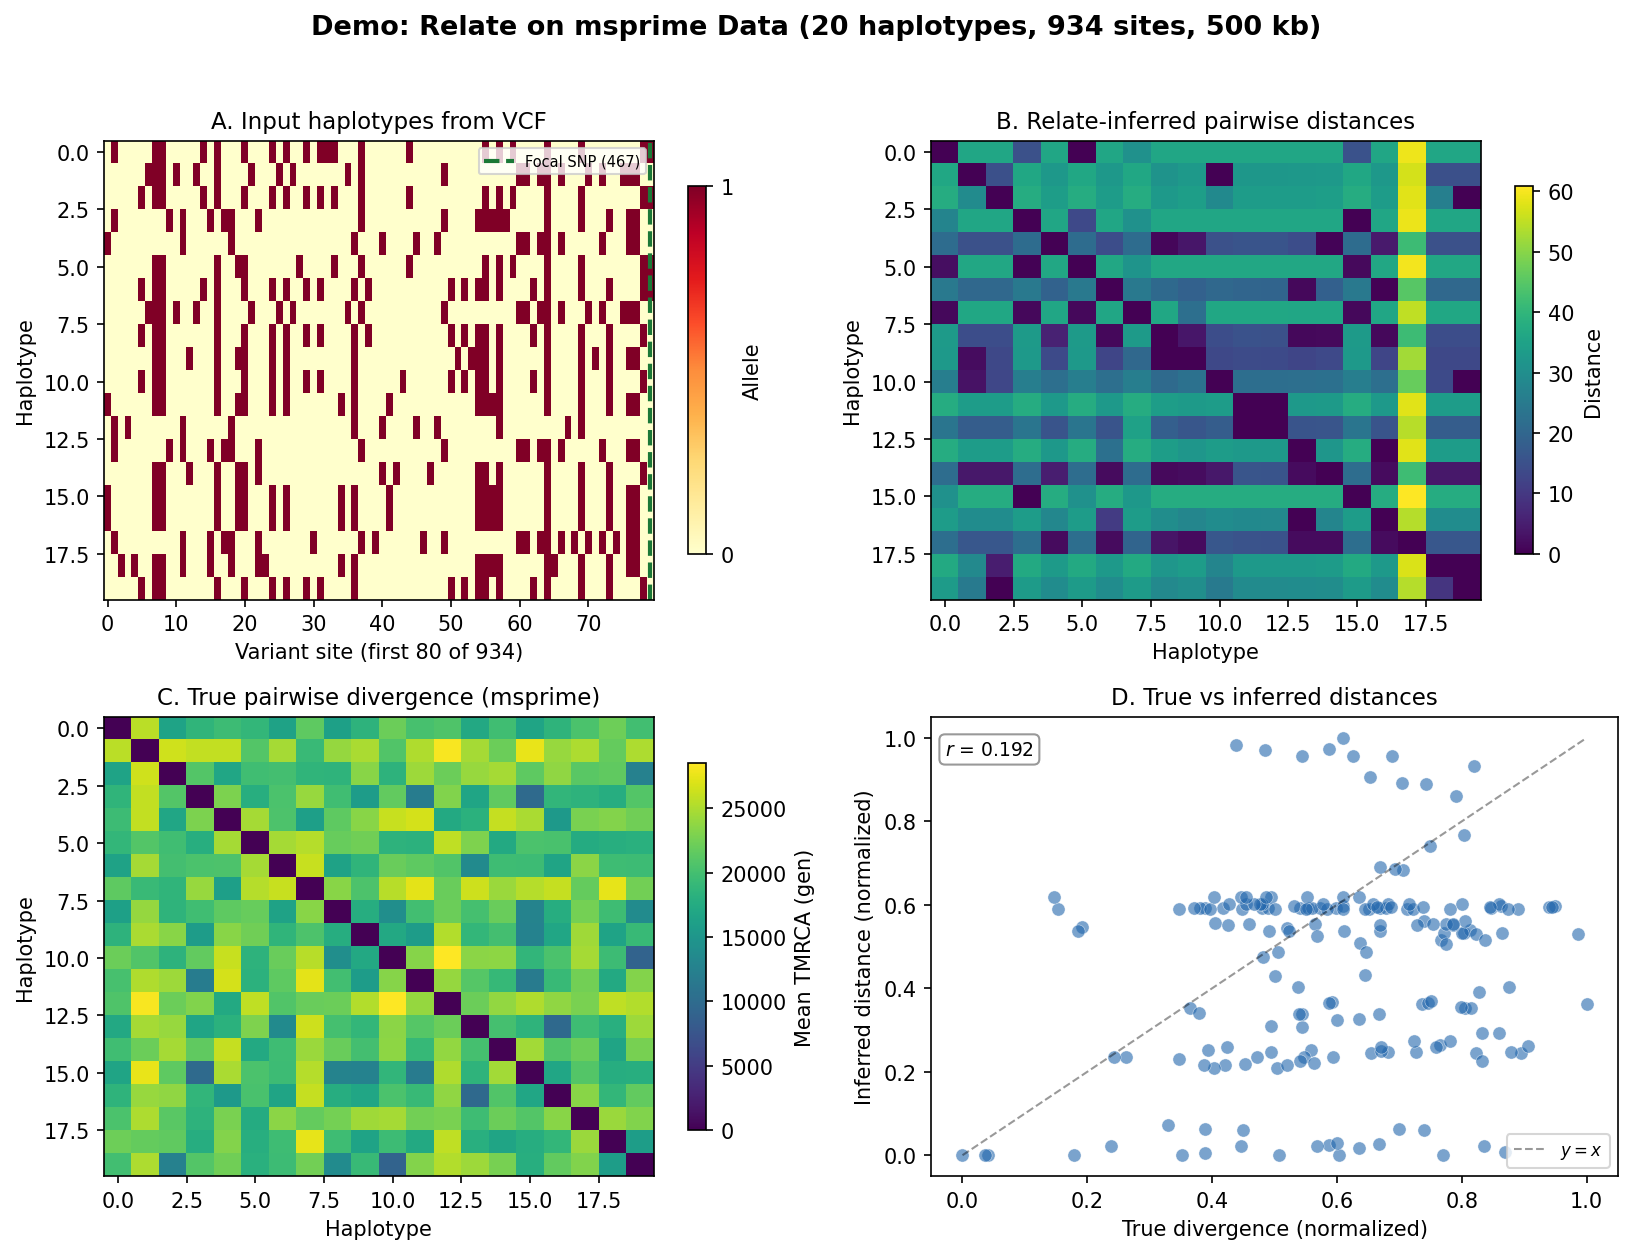
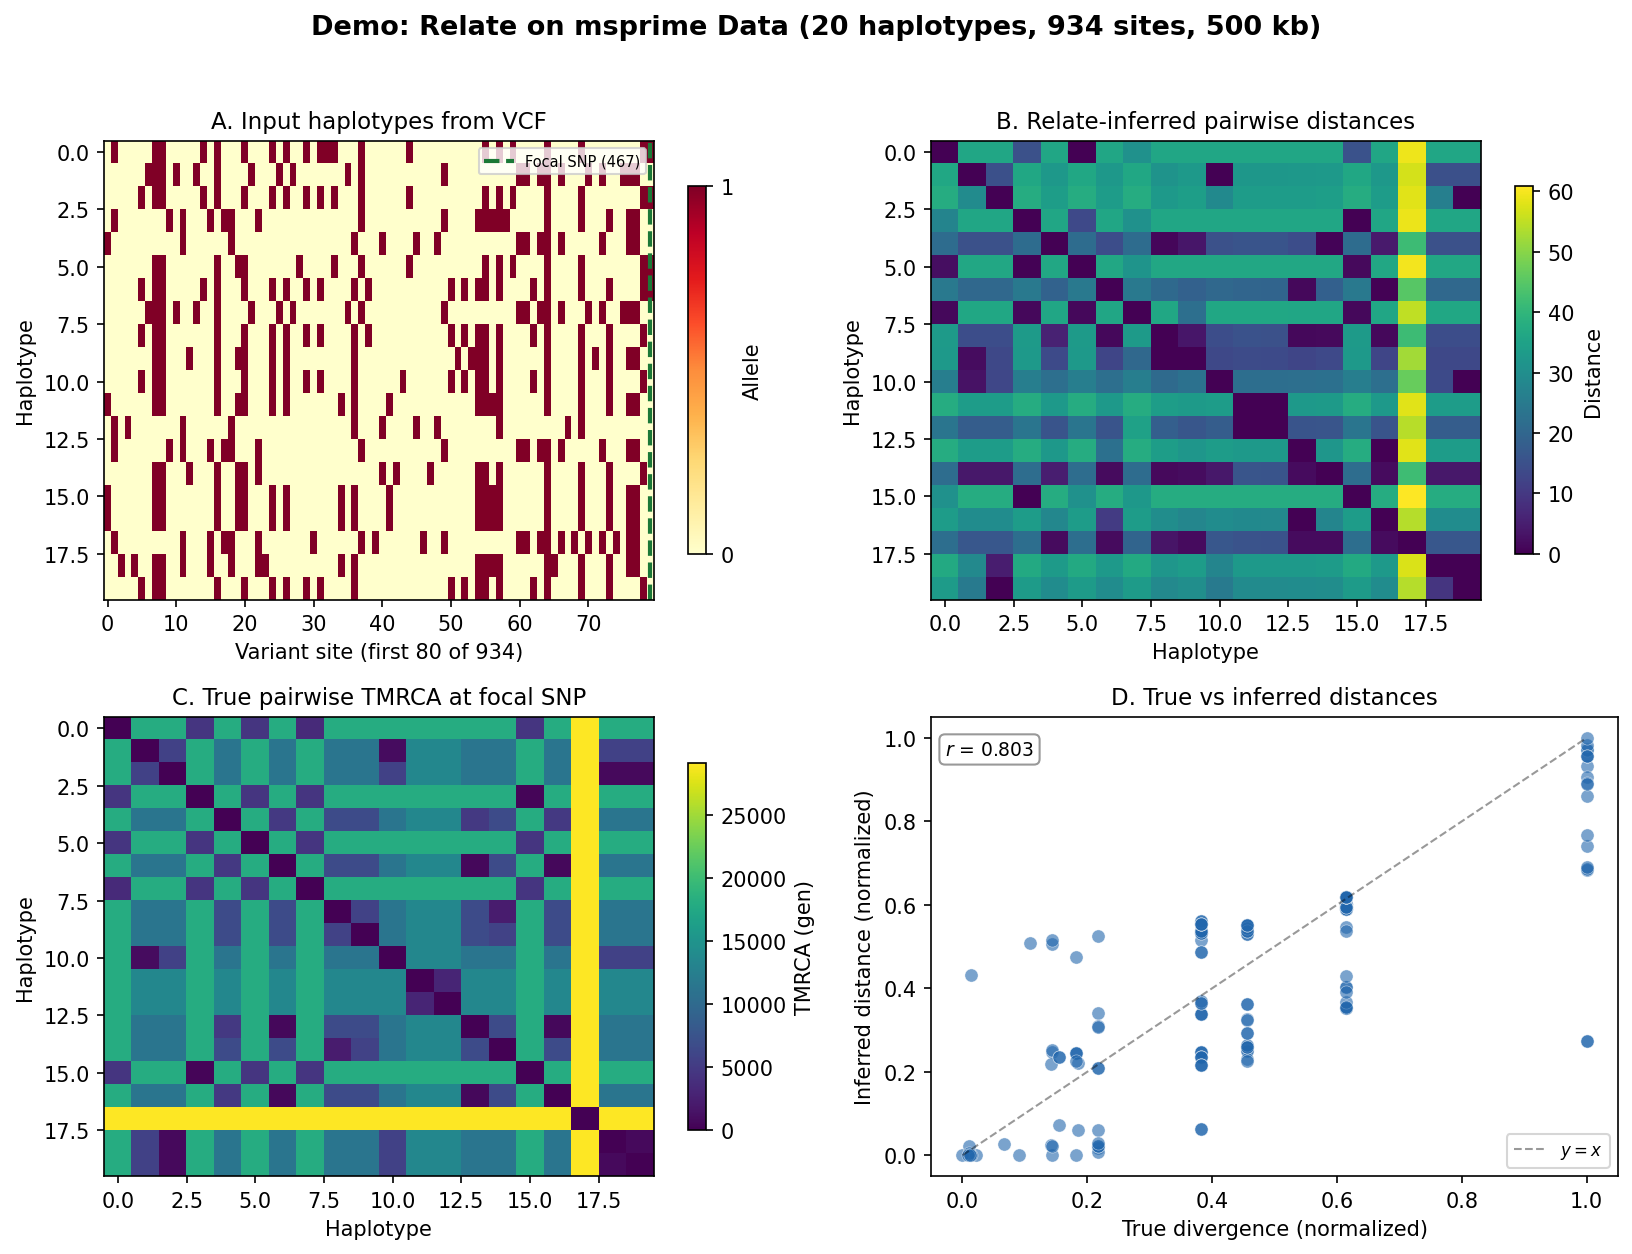
Compare Relate inferred distances against local TMRCA at focal SNP
The demo was comparing inferred distances (local to the focal SNP) against
genome-wide average TMRCA, causing poor correlation (r=0.192) with longer
sequences. Using the true local tree at the focal position gives r=0.803.

diff --git a/figures/fig_demo_relate.py b/figures/fig_demo_relate.py
@@ -47,18 +47,15 @@ D_mat = compute_distance_matrix(G.T, positions, recomb_rate=rho, mu=mu,
 # Build tree from distance matrix
 tree_result = build_tree(D_mat, n_haps)
 
-# ── True pairwise divergence ────────────────────────────────────
+# ── True pairwise TMRCA at focal SNP ──────────────────────────
+focal_pos = positions[focal_snp]
+focal_tree = ts.at(focal_pos)
 true_div = np.zeros((n, n))
-for tree_obj in ts.trees():
-    span = tree_obj.interval[1] - tree_obj.interval[0]
-    for i in range(n):
-        for j in range(i + 1, n):
-            mrca = tree_obj.mrca(i, j)
-            if mrca != -1:
-                t = tree_obj.time(mrca)
-                true_div[i, j] += t * span
-                true_div[j, i] += t * span
-true_div /= ts.sequence_length
+for i in range(n):
+    for j in range(i + 1, n):
+        t = focal_tree.time(focal_tree.mrca(i, j))
+        true_div[i, j] = t
+        true_div[j, i] = t
 
 # ── Figure ──────────────────────────────────────────────────────
 fig, axes = plt.subplots(2, 2, figsize=(11, 8.5))
@@ -93,8 +90,8 @@ ax = axes[1, 0]
 im = ax.imshow(true_div, aspect="auto", cmap="viridis", interpolation="nearest")
 ax.set_xlabel("Haplotype")
 ax.set_ylabel("Haplotype")
-ax.set_title("C. True pairwise divergence (msprime)")
-plt.colorbar(im, ax=ax, label="Mean TMRCA (gen)", shrink=0.8)
+ax.set_title("C. True pairwise TMRCA at focal SNP")
+plt.colorbar(im, ax=ax, label="TMRCA (gen)", shrink=0.8)
 
 # Panel D: True vs inferred distance scatter
 ax = axes[1, 1]
